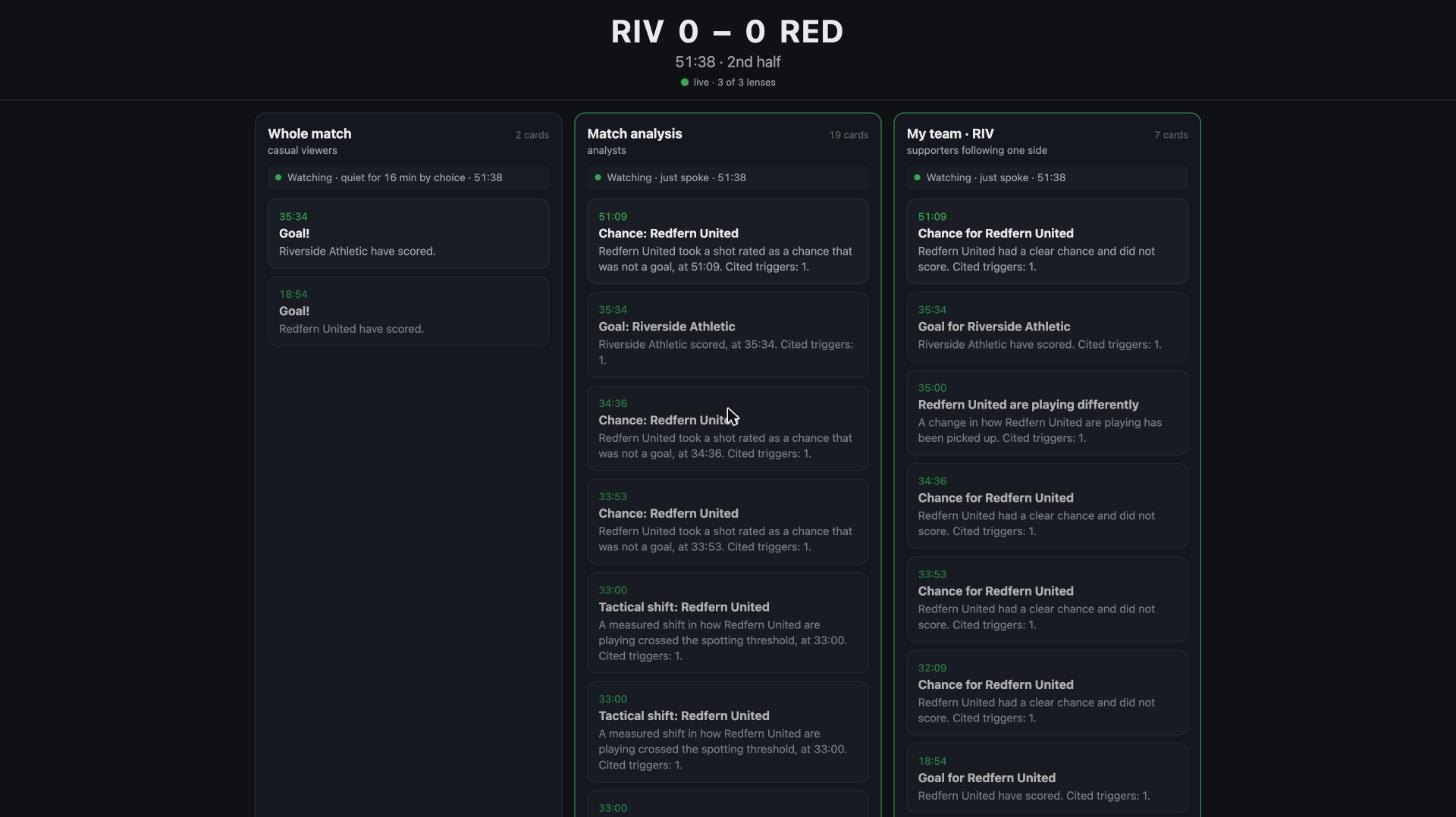
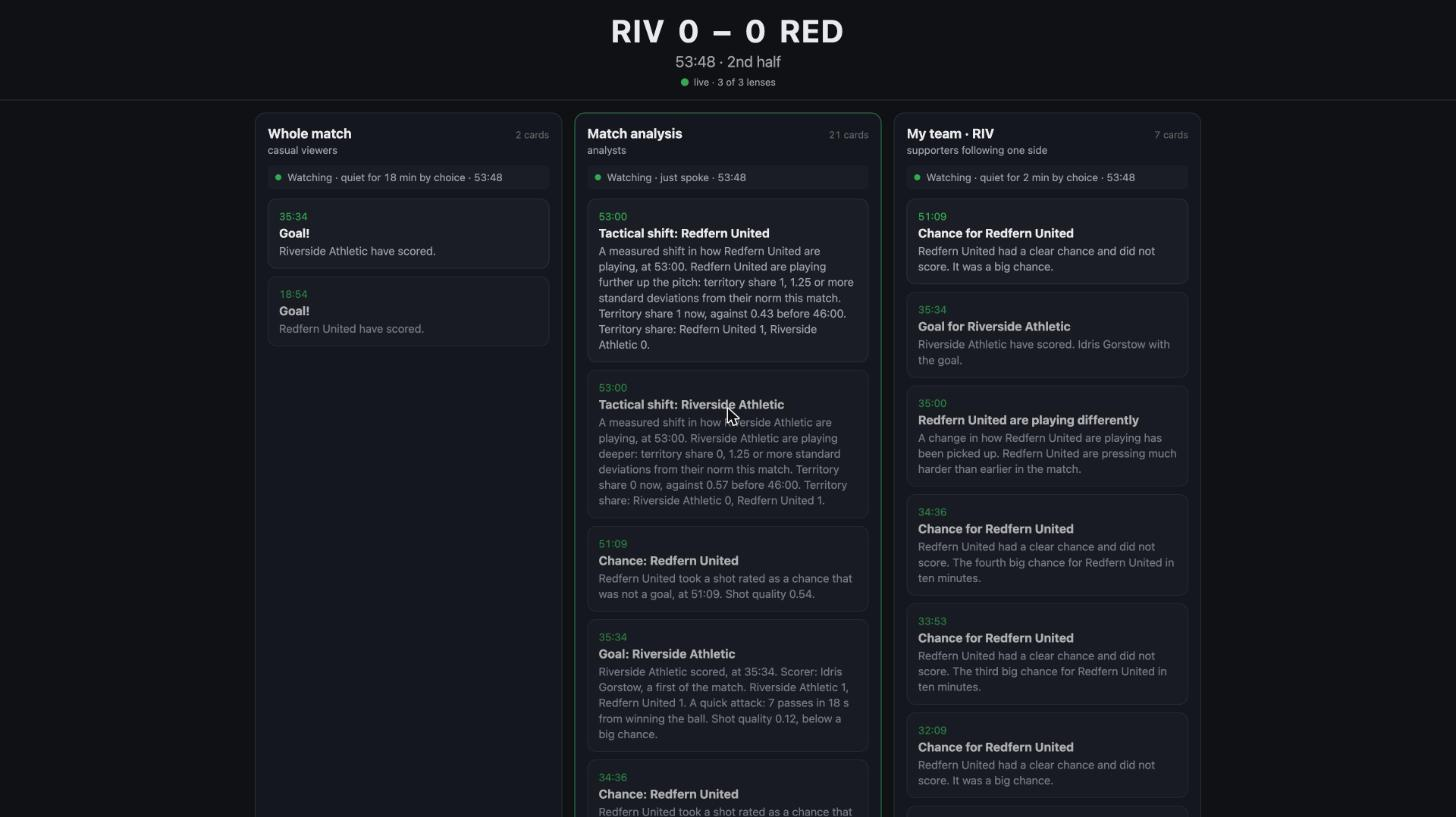
L7: demo screenshot re-taken with real claims

diff --git a/docs/tickets/L7.md b/docs/tickets/L7.md
@@ -51,6 +51,8 @@ The build-order rule puts the thesis on L1: templates, no LLM. Until now the onl
 
 Criteria pass, green, status updated. Re-take L4's screenshot (`docs/screenshots/L4-silent-panel.jpg`) on seed 1 at the same clock, so the demo shot shows cards that say why.
 
+Re-taken 23 Oct at 53:48 on seed 1: Whole match quiet for 18 min while Match analysis fires at 53:00, with cards naming the scorer, the quick attack and the shot quality.
+
 ## Do not
 
 - Do not lower or tune any D29 threshold per match. They are standard values.
